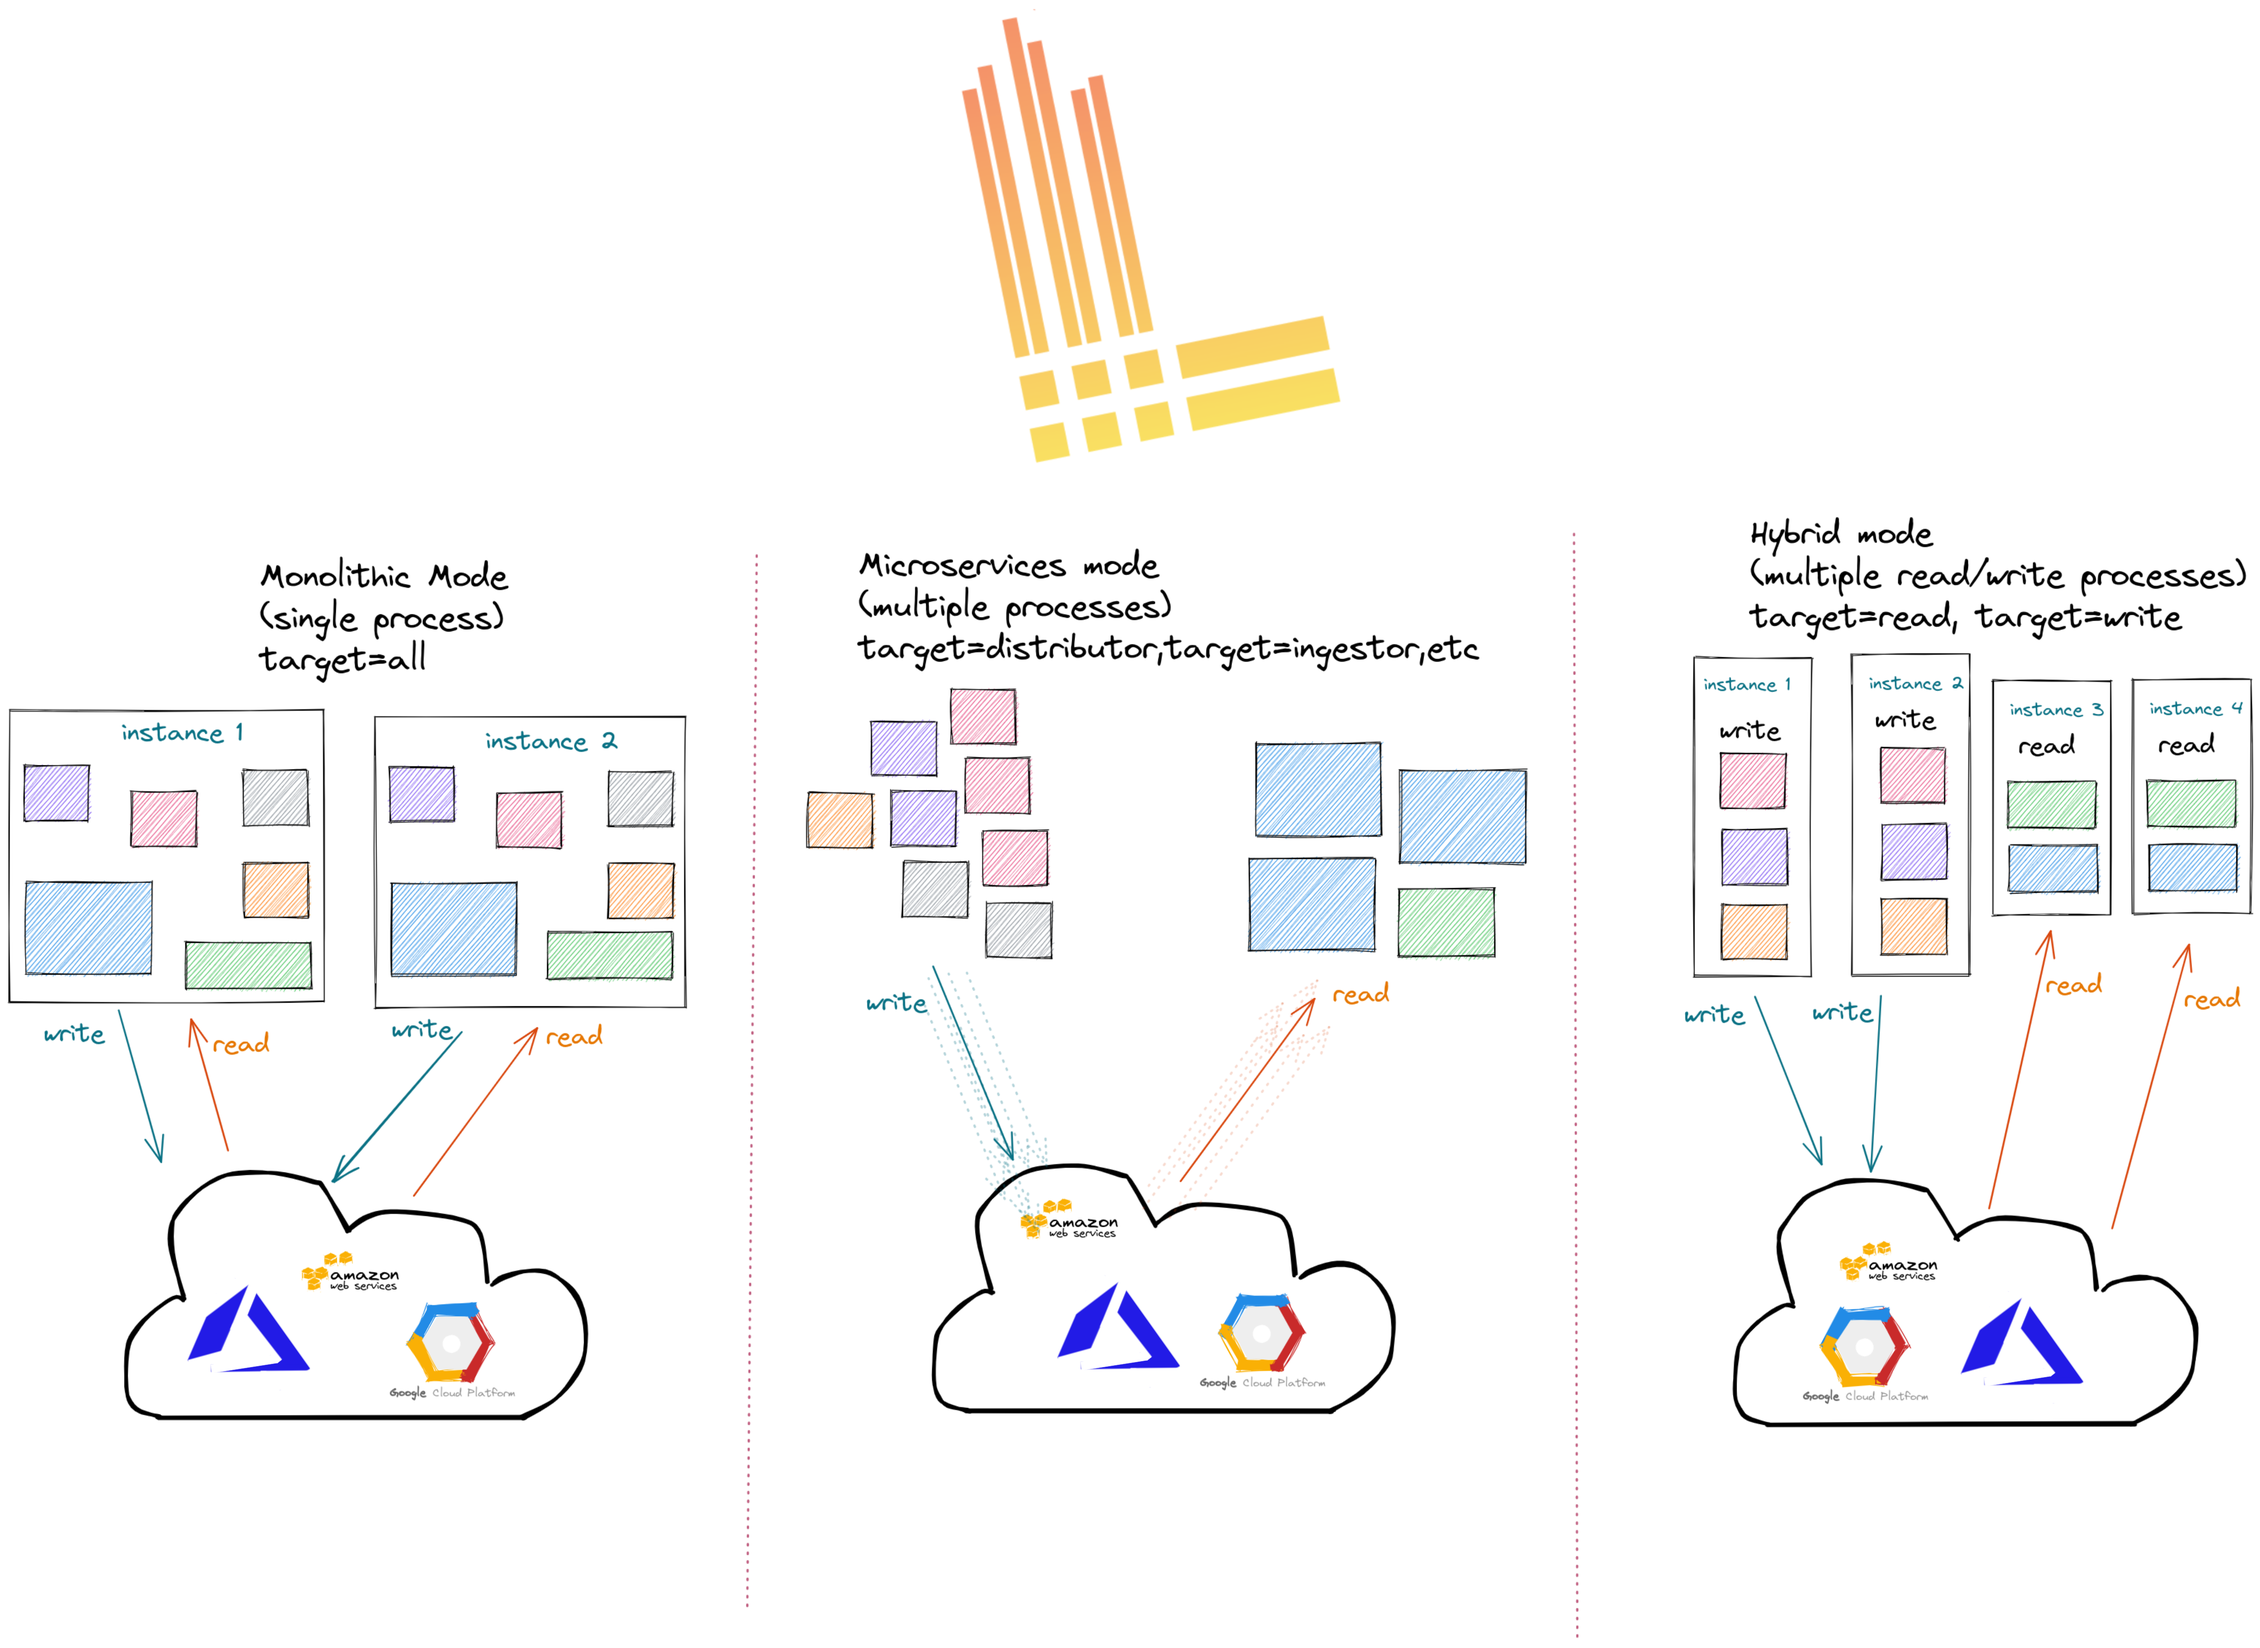
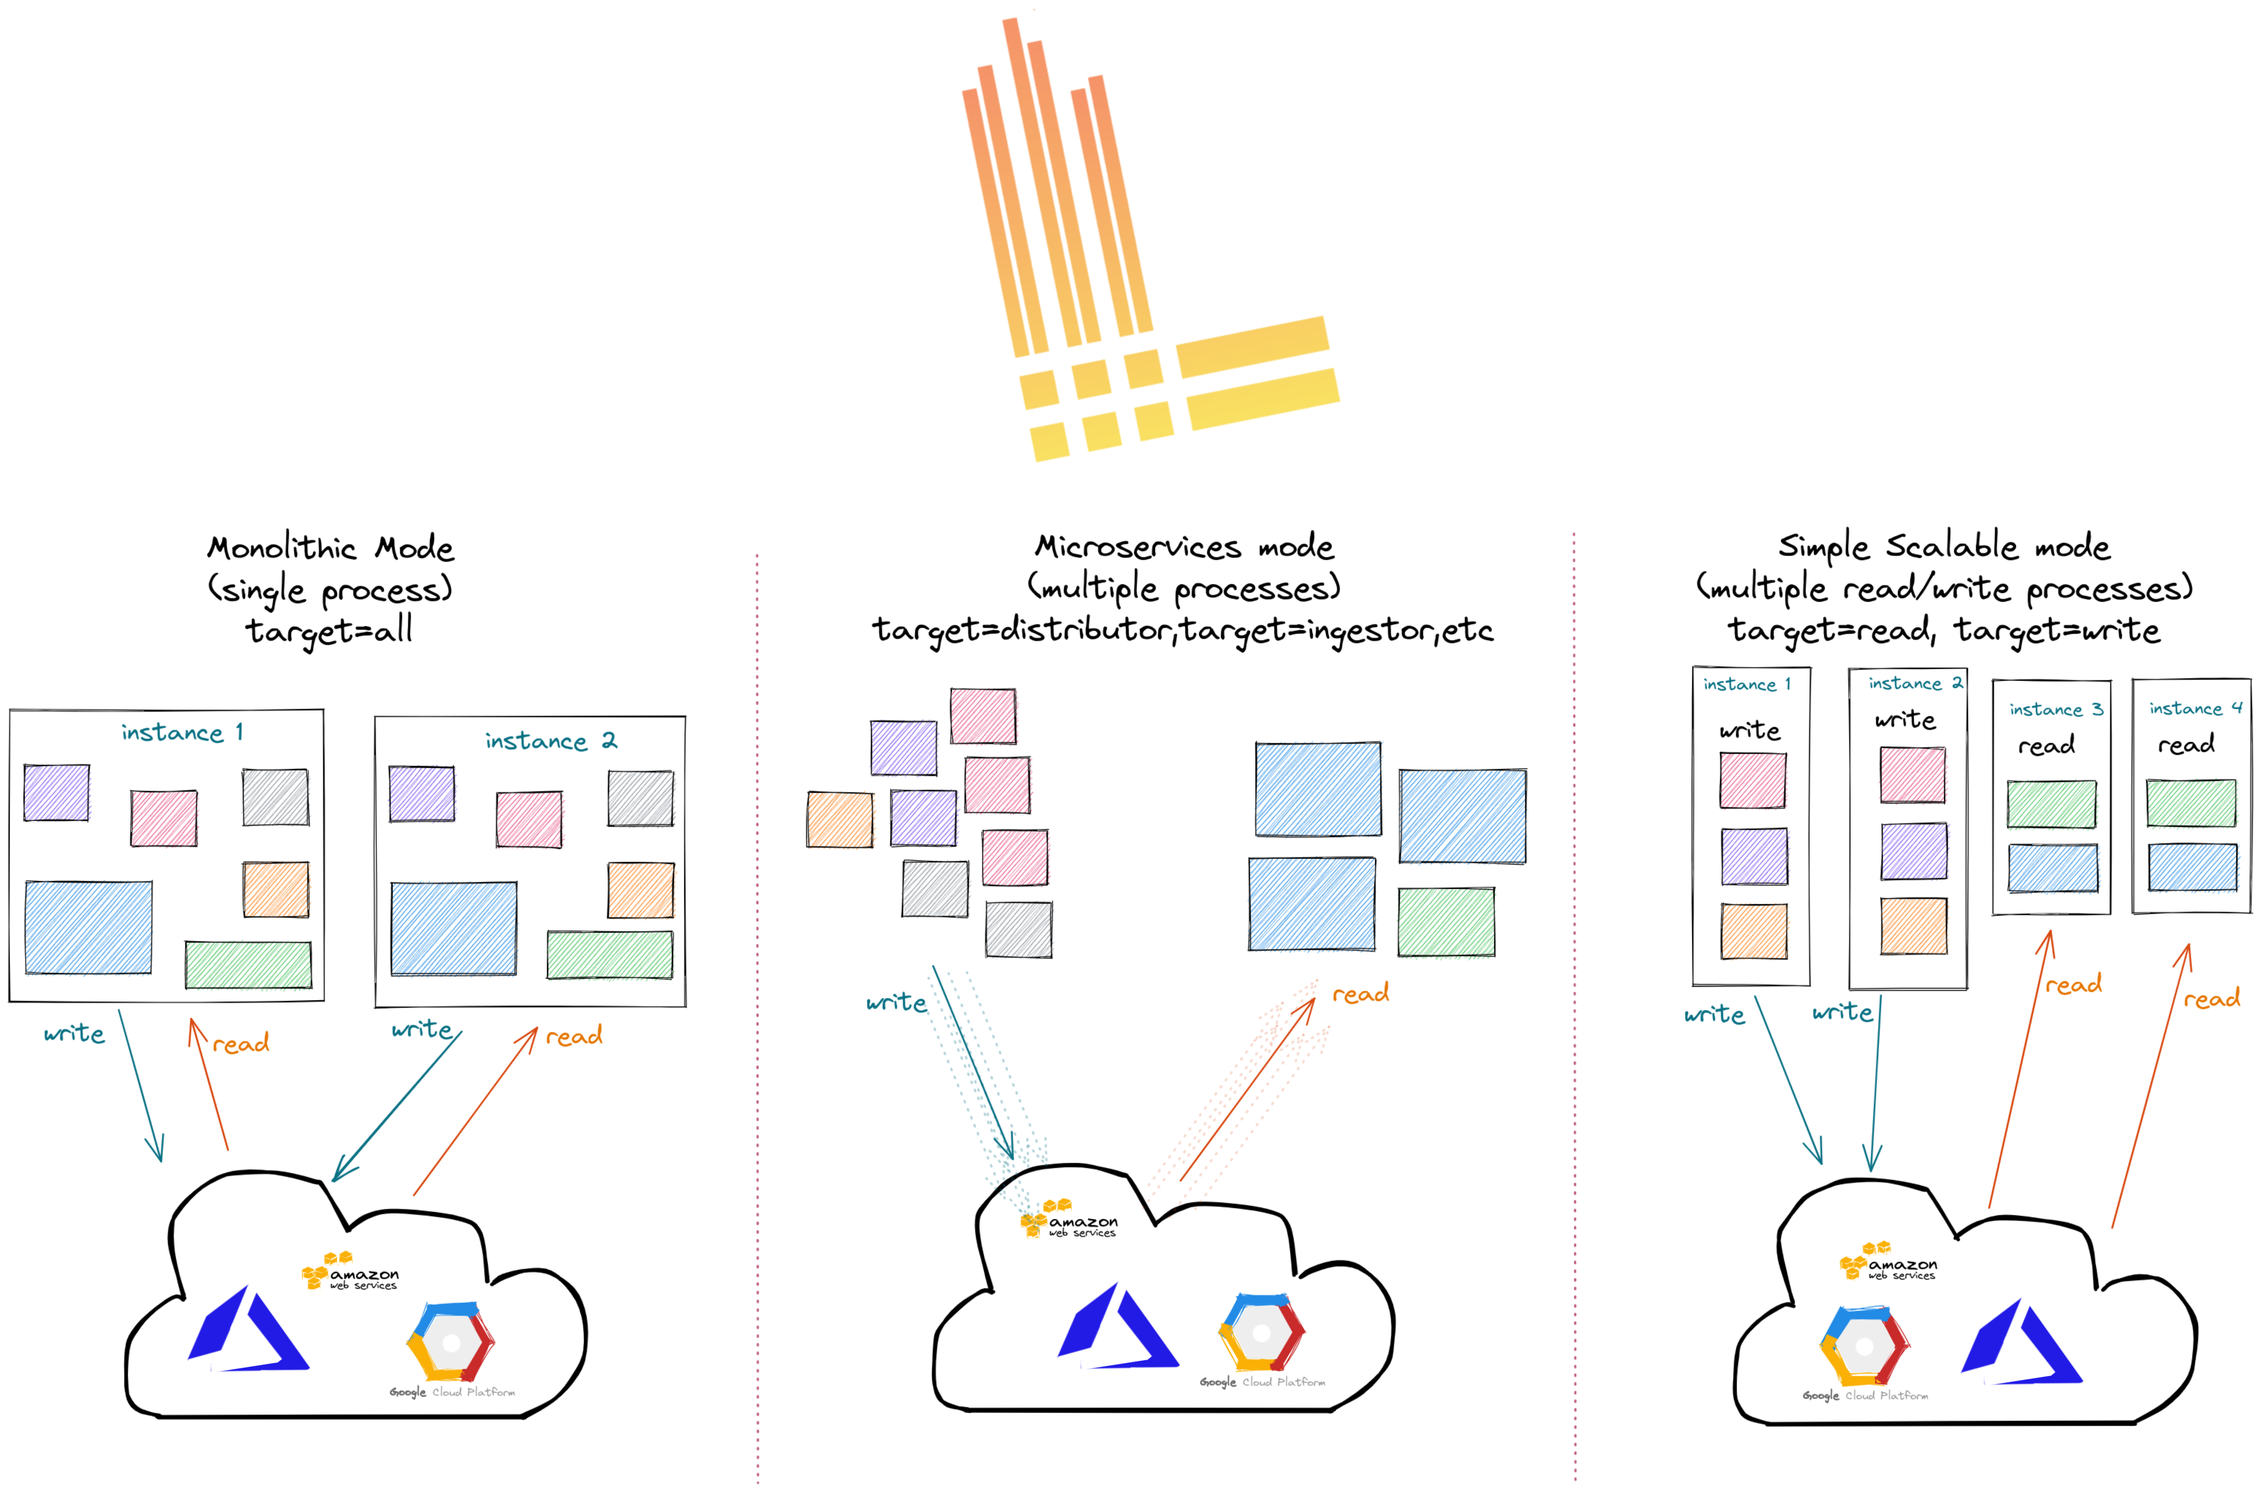
Rename hybrid mode to simple scalable mode.

diff --git a/docs/sources/fundamentals/architecture/_index.md b/docs/sources/fundamentals/architecture/_index.md
@@ -27,14 +27,14 @@ endpoints.
 Loki can run as:
 
 - A single binary, where all components are part of the same process
-- Hybrid, where read-path components run separately from write-path components.
+- Simple scalable, where read-path components (ex: `querier`, `query-frontend`) run separately from write-path components (ex: `distributor`, `ingester`)
 - As microservices, where every component run and scale separately
 
 When invoked, the `-target` flag on the command line or the `target: <string>` configuration determines
-the components' mode: monolythic, hybrid, or microservices.
+the components' mode: monolythic, simple scalable, or microservices.
 A `target` value of `all` runs Loki in single binary/monolythic mode.
-A `target` value of `read` runs all read-path related components (hybrid mode).
-A `target` value of `write` runs all write-path related components (hybrid mode).
+A `target` value of `read` runs all read-path related components (simple scalable mode).
+A `target` value of `write` runs all write-path related components (simple scalable mode).
 A `target` value of one of the components (ex: `compactor`) invokes that component as its own microservice (microservices mode).
 
 Each component of Loki, such as the ingesters and distributors, communicate with
@@ -53,7 +53,7 @@ processes with the following limitations:
    access.
 2. Individual components cannot be scaled independently
 
-Another option is to run in hybrid mode, where Loki is composed of multiple `read` and `write` nodes.
+Another option is to run in simple scalable mode, where Loki is composed of multiple `read` and `write` nodes.
 By using this mode, one can scale the read path separately from the write path and vice-versa, but without
 the overhead of managing all the different components separately.
 
